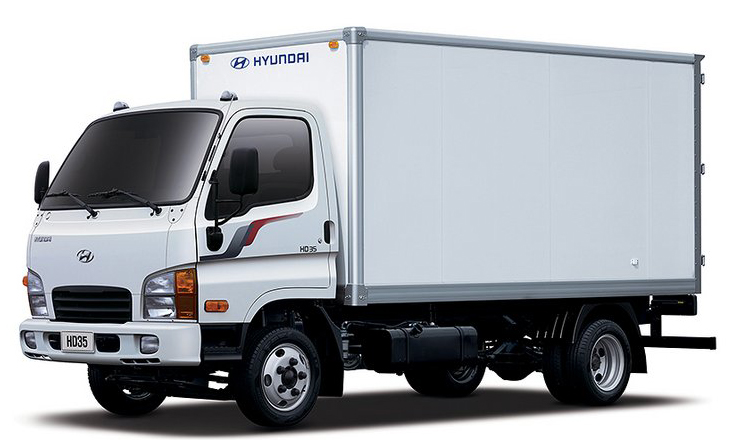
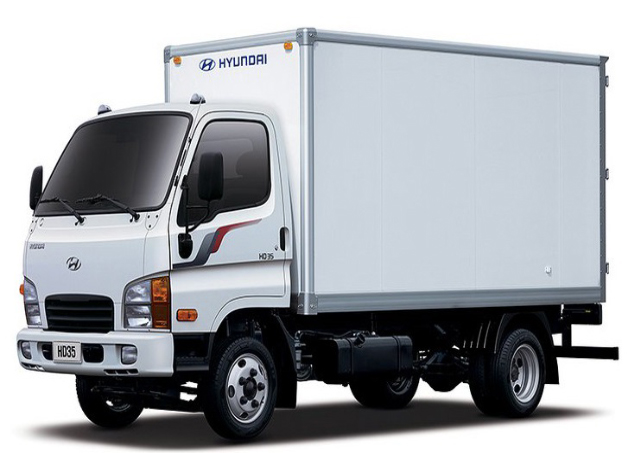
adaptive v4.0

diff --git a/index.html b/index.html
@@ -247,7 +247,7 @@
                         <button class="btn-1">Заказать</button>
                     </div>
                     <div class="cars-foto">
-                        <img src="images/cabluc1.png" alt="">
+                        <img src="images/cabluc1.jpg" alt="">
                     </div>
                 </div>
                 <div class="car">
@@ -260,7 +260,7 @@
                         <button class="btn-1">Заказать</button>
                     </div>
                     <div class="cars-foto">
-                        <img src="images/cabluc2.png" alt="">
+                        <img src="images/cabluc2.jpg" alt="">
                     </div>
                 </div>
                 <div class="car">
@@ -273,7 +273,7 @@
                         <button class="btn-1">Заказать</button>
                     </div>
                     <div class="cars-foto">
-                        <img src="images/cabluc3.png" alt="">
+                        <img src="images/cabluc3.jpg" alt="">
                     </div>
                 </div>
             </div>
@@ -291,7 +291,7 @@
                         <button class="btn-1">Заказать</button>
                     </div>
                     <div class="cars-foto">
-                        <img src="images/truck1.png" alt="">
+                        <img src="images/truck1.jpg" alt="">
                     </div>
                 </div>
                 <div class="car">
@@ -304,7 +304,7 @@
                         <button class="btn-1">Заказать</button>
                     </div>
                     <div class="cars-foto">
-                        <img src="images/truck2.png" alt="">
+                        <img src="images/truck2.jpg" alt="">
                     </div>
                 </div>
                 <div class="car">

diff --git a/css/adaptive.css b/css/adaptive.css
@@ -209,7 +209,7 @@
     }
 
     #autopark .autopark-category .category {
-        padding: 5px 5px;
+        padding: 8px 7px;
     }
 
     .car {
@@ -247,8 +247,8 @@
     .mg-slick-dots {
         position: absolute;
         margin-bottom: unset;
-        bottom: calc(21%);
-        right: calc(40%);
+        bottom: 17%;
+        right: 40%;
     }
 
     .car .cars-information div {
@@ -281,8 +281,13 @@
         display: none;
     }
 
-    #main-header {
-        position: relative;
+    #main-header-menu::after {
+        content: "\2716";
+        position: fixed;
+        top: 15%;
+        right: 10%;
+        color: black;
+        font-size: 36px;
     }
 
     #main-info-description-text h1 {
@@ -301,7 +306,8 @@
     #main-header-menu {
         position: fixed;
         top: 0;
-        background: rgba(219, 55, 55, 0.8);
+        left: 0;
+        background: rgba(237, 251, 238, 0.9);
         flex-direction: column;
         align-items: center;
         justify-content: center;
@@ -407,6 +413,7 @@
 
     #map-info {
         position: static;
+        max-width: unset;
     }
 
     #map-info ul {

diff --git a/js/main.js b/js/main.js
@@ -18,7 +18,7 @@ $(document).ready(() => {
 
 
     window.addEventListener("resize", function () {
-        if (window.innerWidth >= 768) {
+        if (window.innerWidth >= 769) {
             $('#price-blocks').slick('unslick');
 
         } else {
@@ -92,7 +92,7 @@ $(document).ready(() => {
         $('#main-header').toggleClass('menu-open');
     })
 
-    $('#main-header-menu a').click(() => {
+    $('#main-header-menu a, #main-header-menu, #main-header-menu::after').click(() => {
         $('#main-header').removeClass('menu-open');
     })
 })

diff --git a/css/main.css b/css/main.css
@@ -213,7 +213,7 @@ h2 {
     height: 50px;
     position: fixed;
     bottom: 40px;
-    right: 40px;
+    right: 25px;
     display: flex;
     justify-content: center;
     align-items: center;
